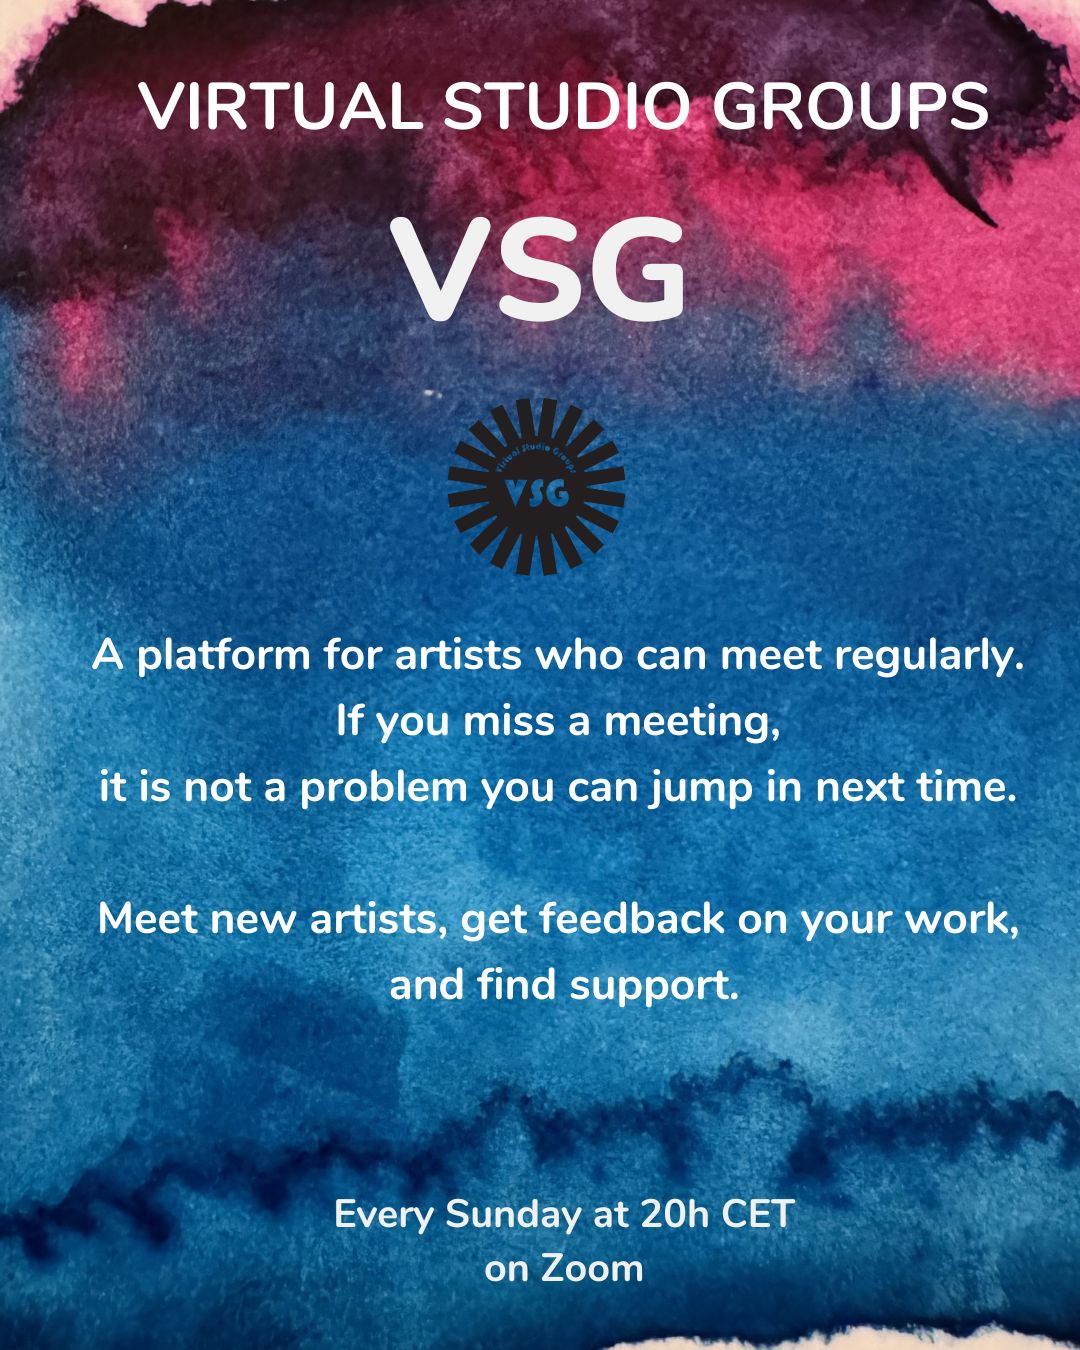
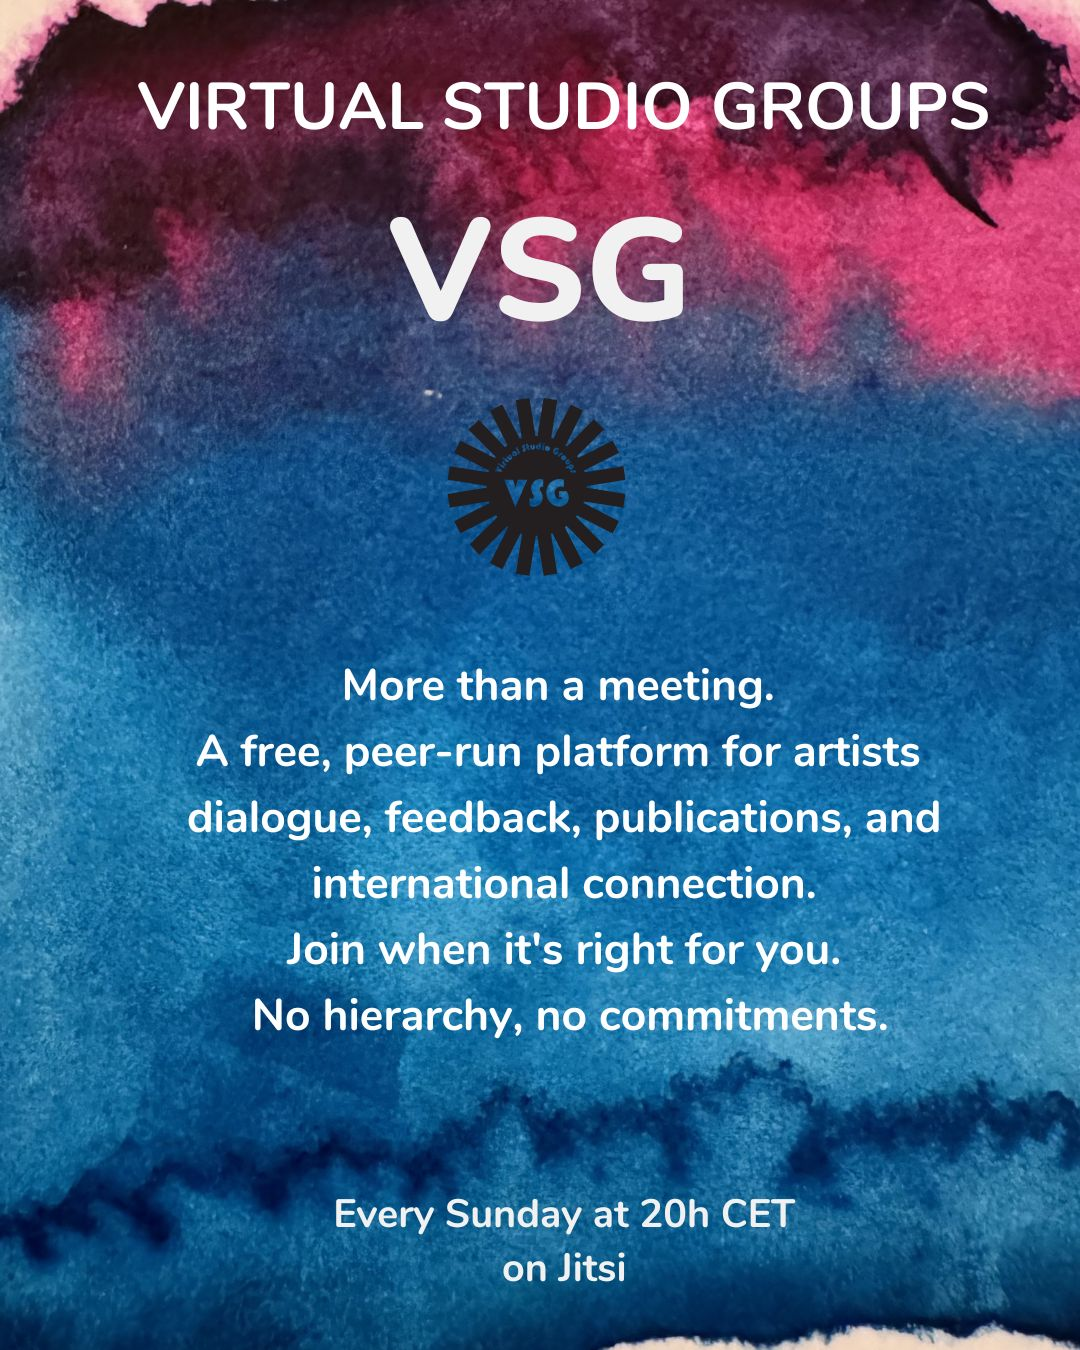
Replace poster image, update About VSG text, Zoom → Jitsi for AIR Exchange

Changed region(s): [[0.0917, 0.4667, 0.9472, 0.7778], [0.4278, 0.9022, 0.6111, 0.9644]]

diff --git a/build.js b/build.js
@@ -362,7 +362,7 @@ function buildCommunity(aboutContent, meetings) {
         <p style="font-family:var(--font-serif);font-size:1rem;line-height:1.8;color:var(--gray-text);margin-bottom:1.5rem">This is different from directories, mailing lists, and institutional networks. It is a live, ongoing conversation — not a database, not a conference, not a broadcast channel. The value is in the dialogue itself.</p>
         <div class="air-exchange-meta">
           <span class="air-exchange-meta-item">Monthly meetings — first Wednesday of each month, 18:00 CET</span>
-          <span class="air-exchange-meta-item">Online via Zoom &nbsp;·&nbsp; Open to residency organizers and artist-run space directors</span>
+          <span class="air-exchange-meta-item">Online via Jitsi &nbsp;·&nbsp; Open to residency organizers and artist-run space directors</span>
           <span class="air-exchange-meta-item">Contact: [email redacted]</span>
         </div>
         <a href="https://airexchangenetwork.wordpress.com" class="btn btn-primary" style="margin-top:1.75rem;display:inline-block" target="_blank" rel="noopener">Visit AIR Exchange Network →</a>
@@ -1349,7 +1349,7 @@ function buildNetwork() {
       <p style="font-family:var(--font-serif);font-size:1.05rem;line-height:1.8;color:var(--gray-text);margin-bottom:1.5rem">We meet online once a month to exchange experiences, share working methods, and discuss the questions many of us are facing: from sustainability and funding to artist care, programming, and the long-term impact of what we build. This is a live, ongoing conversation — not a database, not a conference, not a broadcast channel.</p>
 
       <div class="network-meta">
-        <p>Monthly meetings — first Wednesday of each month, 18:00 CET. Online via Zoom. Open to residency organizers and artist-run space directors.</p>
+        <p>Monthly meetings — first Wednesday of each month, 18:00 CET. Online via Jitsi. Open to residency organizers and artist-run space directors.</p>
         <p style="margin-top:0.75rem"><strong>Contact:</strong> <a href="mailto:[email redacted]">[email redacted]</a></p>
       </div>
     </div>

diff --git a/content/about.md b/content/about.md
@@ -3,15 +3,11 @@ title: About
 description: Virtual Studio Groups — an international artist community founded during the pandemic
 ---
 
-What began as an experimental virtual residency during the pandemic has become an ongoing international network of artists, curators, writers, and cultural professionals — a space for dialogue, peer feedback, and long-term artistic development.
+VSG grew from an experimental virtual residency during the pandemic into an ongoing international network of artists, curators, and cultural professionals.
 
-Our Sunday meetings are only one part of the ecosystem. Through artist presentations, interviews, publications, exhibition projects, and VSG Magazine, we build ongoing opportunities for visibility, reflection, collaboration, and professional growth.
+Our Sunday meetings are one part of a larger ecosystem — alongside artist presentations, interviews, publications, exhibition projects, and VSG Magazine. Presentations are informal and discussion-based. Artists participate voluntarily, and the community gives back through feedback, visibility, and real connection.
 
-VSG is free to join and open to artists at any stage of their practice. It is peer-run and volunteer-led. When artists present here, they are contributing to a shared space — and the community gives back through feedback, visibility, connections, and dialogue.
-
-There are no predetermined outcomes and no institutional hierarchy. Members engage at different levels and at different times — depending on their work, their availability, and where they are in their practice. What connects us is a shared belief that artistic development happens through dialogue, generosity, and sustained exchange over time.
-
-VSG is not simply a meeting. It is a growing platform for artists who value thoughtful discussion, mutual support, and long-term connection across borders.
+VSG is free to join and artist-led. There is no hierarchy and no fixed agenda. Members engage when it's right for them, at whatever level fits their practice.
 
 This is a space for artistic growth, experimentation, and collective knowledge-sharing, without the constraints of physical location. It is a space for meaningful exchange. Our platform provides a flexible, process-driven environment where artists, curators, and cultural professionals can share ideas, receive constructive feedback, and develop their projects with an engaged international art community.
 